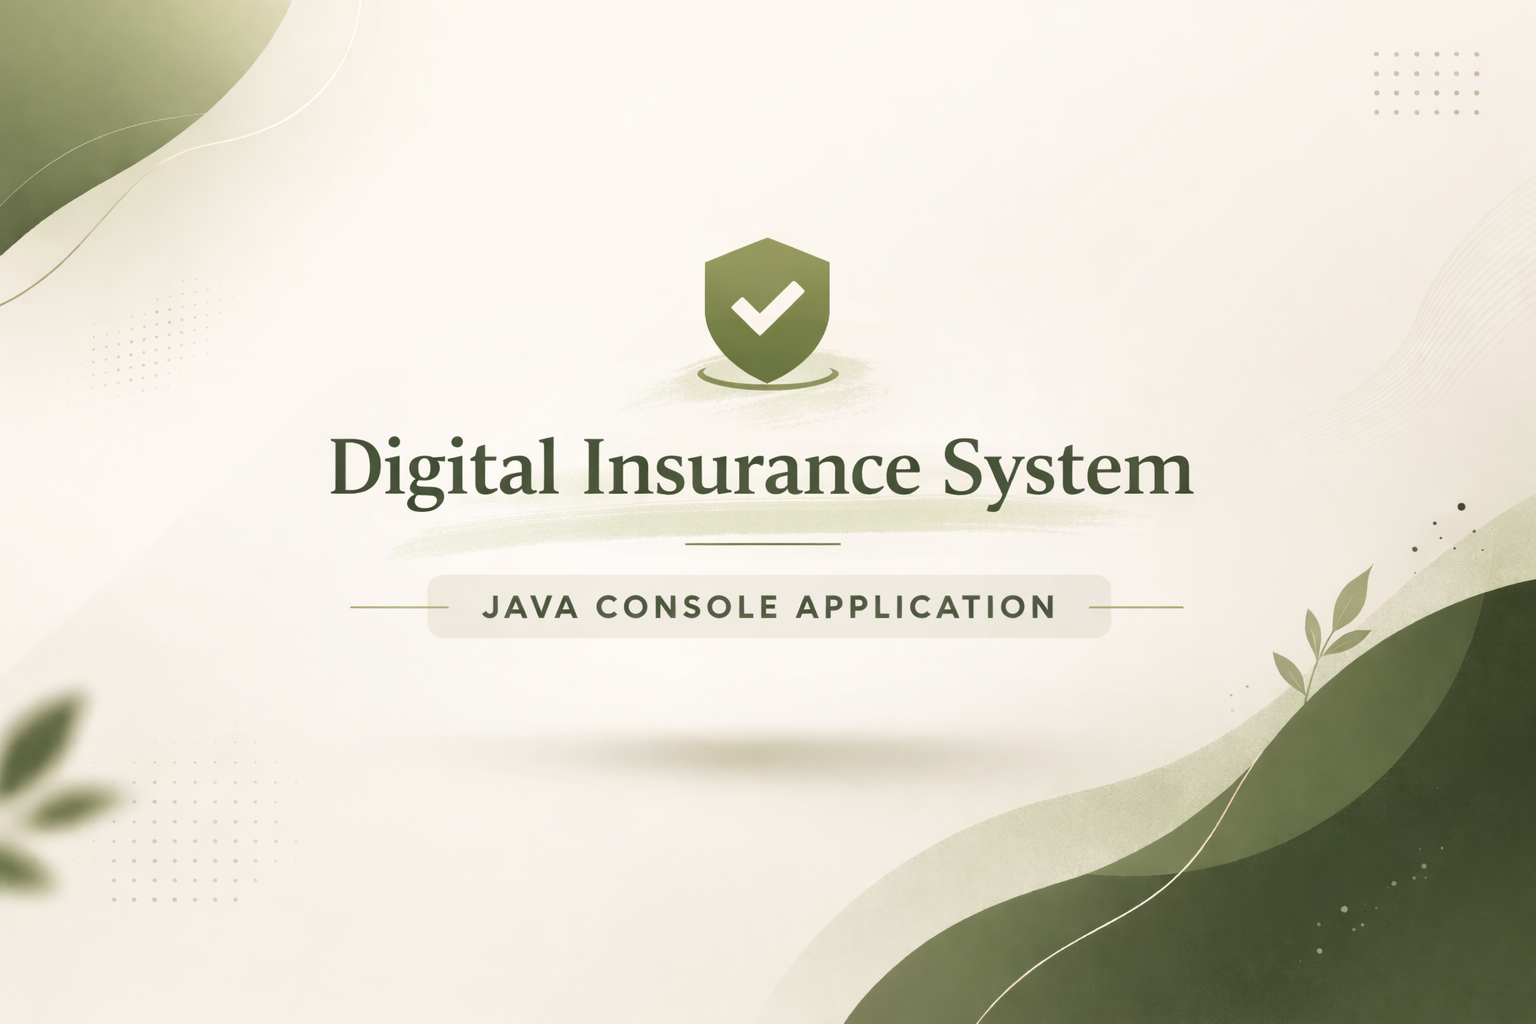
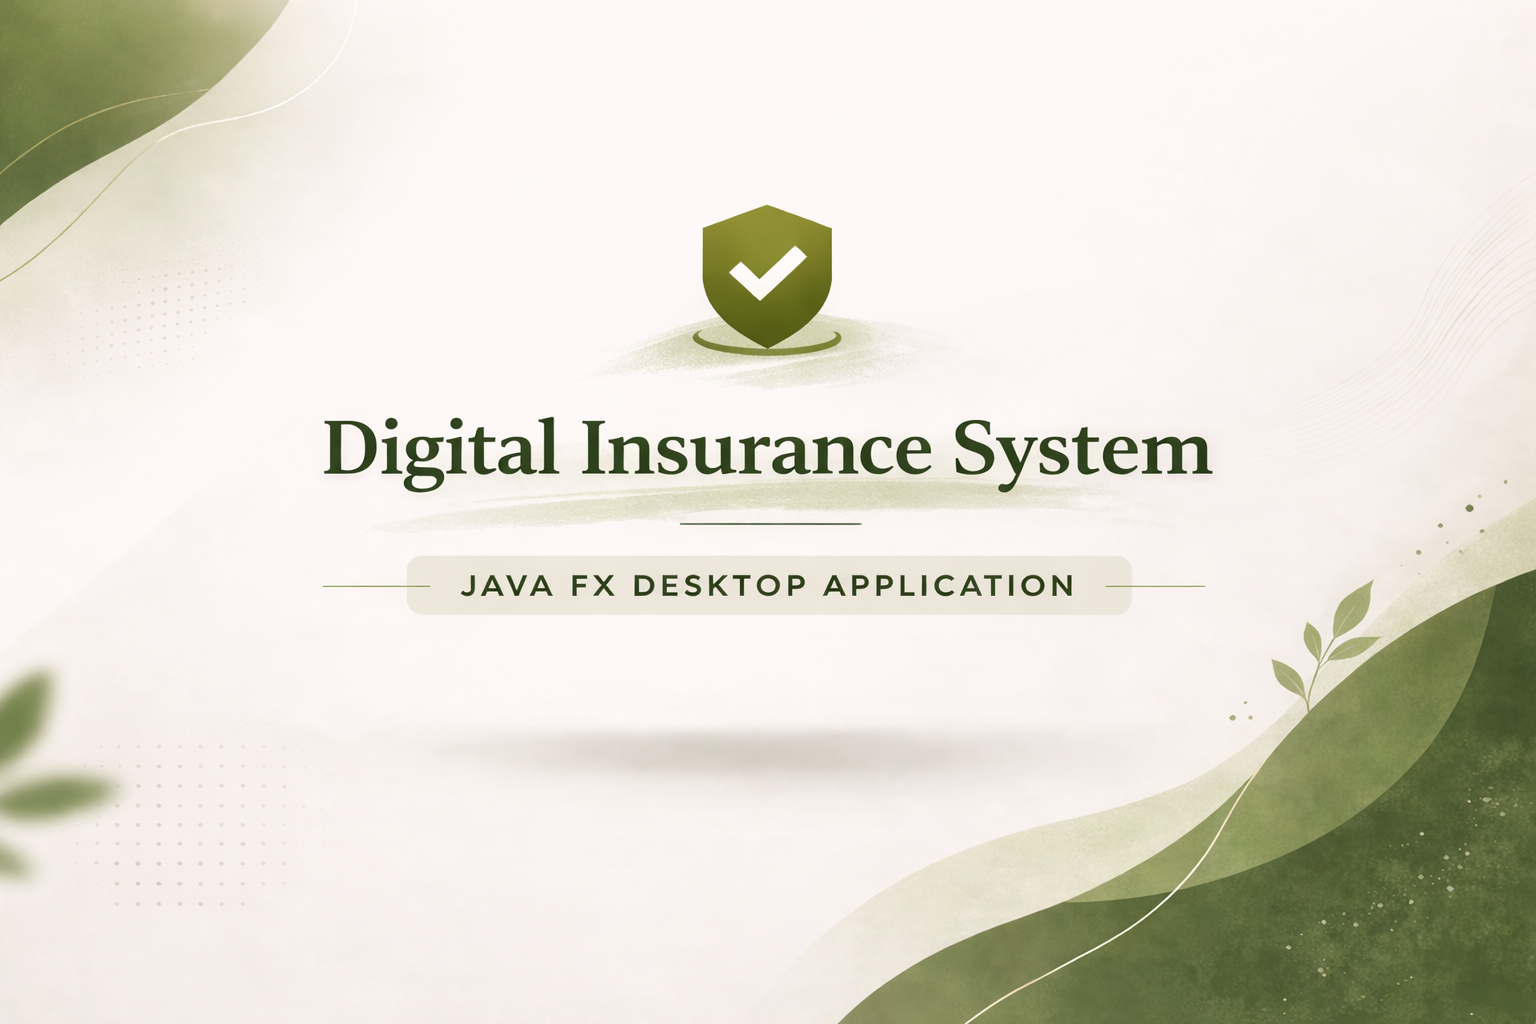
added new changes

diff --git a/digitalinsurance.html b/digitalinsurance.html
@@ -3,7 +3,7 @@
 <head>
   <meta charset="UTF-8" />
   <meta name="viewport" content="width=device-width, initial-scale=1.0" />
-  <title>Zesty Wear SA | Preview</title>
+  <title>Digital Insurance Management System | Preview</title>
 
   <!-- Your shared site styles -->
   <link rel="stylesheet" href="styles.css" />
@@ -55,28 +55,30 @@
         <div class="preview-hero reveal">
           <div class="preview-hero-left">
             <span class="section-label">Project Preview</span>
-            <h2 class="preview-title">Digital Insurance System</h2>
-            <p class="preview-subtitle">Java-based Insurance Management System</p>
+            <h2 class="preview-title">Digital Insurance Management System</h2>
+            <p class="preview-subtitle">JavaFX Desktop App + MySQL (JDBC)</p>
 
             <p class="preview-desc">
-              Full-stack Java application for managing insurance policies, claims, and customer data.
-              Features include user authentication, policy management, claim processing, and database integration.
+              A JavaFX desktop application that captures customer and policy details, calculates insurance premiums
+              based on policy type, stores records in a database, and displays saved policies in a TableView.
+              Built with clean UI structure, event-driven logic, and database integration.
             </p>
 
             <div class="tech-stack">
-              <span>HTML</span><span>CSS</span><span>JavaScript</span><span>PHP</span><span>MySQL</span>
+              <span>Java</span><span>JavaFX</span><span>JDBC</span><span>SQL / MySQL</span><span>TableView</span>
             </div>
 
             <div class="preview-actions">
               <a class="btn primary" href="#screens">View Screenshots</a>
-              <a class="btn ghost" href="https://github.com/anjetech/Zesty-Wear-SA" target="_blank" rel="noreferrer">GitHub</a>
+              <!-- Replace link with your real repo if you have one -->
+              <a class="btn ghost" href="#" target="_blank" rel="noreferrer">GitHub</a>
             </div>
           </div>
 
-          <!-- cover image (the logo card you generated) -->
+          <!-- cover image -->
           <div class="preview-cover image-frame">
-            <!-- rename this to your final file name -->
-            <img src="Photos/DigitalSystemJava.png" alt="Digital Insurance cover image">
+            <!-- Update this to your actual image file -->
+            <img src="Photos/DigitalSystemJava.png" alt="Digital Insurance Management System cover image">
           </div>
         </div>
 
@@ -85,27 +87,27 @@
           <div class="card">
             <h3>What it does</h3>
             <ul class="mini-list">
-              <li>Browse products and view details</li>
-              <li>Add to cart and update quantities</li>
-              <li>Checkout flow with session handling</li>
+              <li>Captures customer and policy info in a JavaFX form</li>
+              <li>Calculates premium automatically from coverage + policy type</li>
+              <li>Saves customers and policies into a SQL database</li>
             </ul>
           </div>
 
           <div class="card">
             <h3>Key features</h3>
             <ul class="mini-list">
-              <li>Product listings + filtering (if applicable)</li>
-              <li>Cart + totals</li>
-              <li>CRUD + database relationships</li>
+              <li>Policy type selection (Life / Health / Auto)</li>
+              <li>Premium % logic (5% / 8% / 10%)</li>
+              <li>View Policies button loads DB data into TableView</li>
             </ul>
           </div>
 
           <div class="card highlight">
             <h3>What I learned</h3>
             <ul class="mini-list">
-              <li>PHP + MySQL integration</li>
-              <li>Building CRUD with clean structure</li>
-              <li>Handling state with sessions</li>
+              <li>Building JavaFX forms and wiring events cleanly</li>
+              <li>Connecting Java to SQL using JDBC (PreparedStatements)</li>
+              <li>Displaying data with TableView + ObservableList</li>
             </ul>
           </div>
         </div>
@@ -113,36 +115,36 @@
         <!-- screenshots -->
         <div class="preview-section reveal" id="screens">
           <h3 class="preview-h3">Screenshots</h3>
-          <p class="preview-muted">Add 4–8 screenshots. Keep them the same size for a clean look.</p>
+          <p class="preview-muted">Add 3–6 screenshots (Form, Premium Calculation, TableView, Database).</p>
 
           <div class="gallery">
             <!-- Replace these with your real screenshots -->
             <figure class="shot image-frame">
-              <img src="Photos/zesty_01.png" alt="Zesty Wear - Home page">
+              <img src="Photos/insurance_01.png" alt="Insurance app - Data capture form">
             </figure>
 
             <figure class="shot image-frame">
-              <img src="Photos/zesty_02.png" alt="Zesty Wear - Product listing">
+              <img src="Photos/insurance_02.png" alt="Insurance app - Premium calculation">
             </figure>
 
             <figure class="shot image-frame">
-              <img src="Photos/zesty_03.png" alt="Zesty Wear - Cart">
+              <img src="Photos/insurance_03.png" alt="Insurance app - View policies TableView">
             </figure>
 
             <figure class="shot image-frame">
-              <img src="Photos/zesty_04.png" alt="Zesty Wear - Checkout">
+              <img src="Photos/insurance_04.png" alt="Insurance app - Database records">
             </figure>
           </div>
 
           <div class="preview-tip">
             <span class="dot"></span>
             <p class="preview-muted">
-              Tip: If you don’t have 4 screenshots yet, start with 2 (Home + Cart) and add more later.
+              Tip: If you don’t have database screenshots, use NetBeans output + the TableView screen first.
             </p>
           </div>
         </div>
 
-        <!-- project notes (optional but professional) -->
+        <!-- build notes -->
         <div class="preview-section reveal">
           <h3 class="preview-h3">Build Notes</h3>
 
@@ -150,16 +152,16 @@
             <div class="note">
               <h4>Architecture</h4>
               <p class="preview-muted">
-                Structured pages and server-side logic to support product retrieval, cart actions,
-                and checkout flow.
+                JavaFX UI built with GridPane + form inputs, wired with button handlers.
+                Uses a Policy model (SimpleStringProperty) to bind data into a TableView.
               </p>
             </div>
 
             <div class="note">
               <h4>Data</h4>
               <p class="preview-muted">
-                MySQL tables for products/users/orders (based on your implementation),
-                connected through relationships and CRUD operations.
+                Uses JDBC with PreparedStatements to insert customers and policies into separate tables.
+                The View Policies action joins the tables and loads results into an ObservableList for display.
               </p>
             </div>
           </div>

diff --git a/wattway.html b/wattway.html
@@ -3,7 +3,7 @@
 <head>
   <meta charset="UTF-8" />
   <meta name="viewport" content="width=device-width, initial-scale=1.0" />
-  <title>Zesty Wear SA | Preview</title>
+  <title>WattWay | Preview</title>
 
   <!-- Your shared site styles -->
   <link rel="stylesheet" href="styles.css" />
@@ -55,28 +55,32 @@
         <div class="preview-hero reveal">
           <div class="preview-hero-left">
             <span class="section-label">Project Preview</span>
-            <h2 class="preview-title">Wattway</h2>
-            <p class="preview-subtitle">Solar Panel E-Commerce Website</p>
+            <h2 class="preview-title">WattWay</h2>
+            <p class="preview-subtitle">EV Charging & Load-shedding Mobile App</p>
 
             <p class="preview-desc">
-              Full-stack e-commerce platform for solar panels with product listings, shopping cart, checkout,
-              session handling, and database-driven CRUD functionality.
+              A mobile app that helps EV users find charging stations on a map and view load-shedding schedules.
+              It includes secure login/registration, role-based access, profile management, and admin controls,
+              with strong error handling and smooth screen navigation.
             </p>
 
             <div class="tech-stack">
-              <span>HTML</span><span>CSS</span><span>JavaScript</span><span>PHP</span><span>MySQL</span>
+              <span>Android</span><span>Firebase Auth</span><span>Firestore</span><span>Google Maps</span>
+              <span>EskomSePush API</span><span>MVVM</span>
             </div>
 
             <div class="preview-actions">
               <a class="btn primary" href="#screens">View Screenshots</a>
-              <a class="btn ghost" href="https://github.com/anjetech/Wattway" target="_blank" rel="noreferrer">GitHub</a>
+
+              <!-- Note: your doc says the repo is private; link still included for convenience -->
+              <a class="btn ghost" href="https://github.com/anjetech/WattWay-App" target="_blank" rel="noreferrer">GitHub</a>
             </div>
           </div>
 
-          <!-- cover image (the logo card you generated) -->
+          <!-- cover image -->
           <div class="preview-cover image-frame">
-            <!-- rename this to your final file name -->
-            <img src="Photos/wattway_logo.PNG" alt="Wattway cover image">
+            <!-- Update this filename to match your real image -->
+            <img src="Photos/wattway_logo.PNG" alt="WattWay cover image">
           </div>
         </div>
 
@@ -85,27 +89,27 @@
           <div class="card">
             <h3>What it does</h3>
             <ul class="mini-list">
-              <li>Browse products and view details</li>
-              <li>Add to cart and update quantities</li>
-              <li>Checkout flow with session handling</li>
+              <li>Shows EV charging stations on a map</li>
+              <li>Displays load-shedding schedules (API-driven)</li>
+              <li>Profile management + admin controls</li>
             </ul>
           </div>
 
           <div class="card">
             <h3>Key features</h3>
             <ul class="mini-list">
-              <li>Product listings + filtering (if applicable)</li>
-              <li>Cart + totals</li>
-              <li>CRUD + database relationships</li>
+              <li>Secure login & registration (Firebase Authentication)</li>
+              <li>Role-based access using Firestore rules</li>
+              <li>Error handling + loading states for API responses</li>
             </ul>
           </div>
 
           <div class="card highlight">
             <h3>What I learned</h3>
             <ul class="mini-list">
-              <li>PHP + MySQL integration</li>
-              <li>Building CRUD with clean structure</li>
-              <li>Handling state with sessions</li>
+              <li>MVVM structure for cleaner, maintainable code</li>
+              <li>NoSQL design + real-time syncing with Firebase</li>
+              <li>UI consistency and testing to reduce bugs</li>
             </ul>
           </div>
         </div>
@@ -118,31 +122,31 @@
           <div class="gallery">
             <!-- Replace these with your real screenshots -->
             <figure class="shot image-frame">
-              <img src="Photos/zesty_01.png" alt="Zesty Wear - Home page">
+              <img src="Photos/wattway_01.png" alt="WattWay - Login or Home screen">
             </figure>
 
             <figure class="shot image-frame">
-              <img src="Photos/zesty_02.png" alt="Zesty Wear - Product listing">
+              <img src="Photos/wattway_02.png" alt="WattWay - Map view and station markers">
             </figure>
 
             <figure class="shot image-frame">
-              <img src="Photos/zesty_03.png" alt="Zesty Wear - Cart">
+              <img src="Photos/wattway_03.png" alt="WattWay - Load-shedding schedules screen">
             </figure>
 
             <figure class="shot image-frame">
-              <img src="Photos/zesty_04.png" alt="Zesty Wear - Checkout">
+              <img src="Photos/wattway_04.png" alt="WattWay - Admin controls screen">
             </figure>
           </div>
 
           <div class="preview-tip">
             <span class="dot"></span>
             <p class="preview-muted">
-              Tip: If you don’t have 4 screenshots yet, start with 2 (Home + Cart) and add more later.
+              Tip: If you don’t have 4 screenshots yet, start with 2 (Map + Load-shedding) and add more later.
             </p>
           </div>
         </div>
 
-        <!-- project notes (optional but professional) -->
+        <!-- project notes -->
         <div class="preview-section reveal">
           <h3 class="preview-h3">Build Notes</h3>
 
@@ -150,16 +154,16 @@
             <div class="note">
               <h4>Architecture</h4>
               <p class="preview-muted">
-                Structured pages and server-side logic to support product retrieval, cart actions,
-                and checkout flow.
+                Designed to integrate multiple services smoothly (authentication, database, maps, and external APIs),
+                while handling asynchronous data flow, navigation stability, and clean maintainable structure using MVVM.
               </p>
             </div>
 
             <div class="note">
               <h4>Data</h4>
               <p class="preview-muted">
-                MySQL tables for products/users/orders (based on your implementation),
-                connected through relationships and CRUD operations.
+                Uses Firestore (NoSQL) with role-based access control and real-time syncing.
+                Improved reliability by adding error handling/loading states and tightening access rules.
               </p>
             </div>
           </div>

diff --git a/work.html b/work.html
@@ -87,9 +87,10 @@
             </div>
             <div class="project-content">
               <h3>WattWay</h3>
-              <p class="project-sub">EV Charging & Load Shedding App</p>
+              <p class="project-sub">EV Charging & Load-Shedding Android App</p>
               <p class="project-desc">
-                Android app providing EV charging locations, navigation, and load-shedding schedules.
+                Android application that helps users locate EV charging stations on a map and view load-shedding schedules,
+                with secure authentication and database-driven features.
               </p>
 
               <p class="project-note">
@@ -98,7 +99,7 @@
               </p>
 
               <div class="tech-stack">
-                <span>Java</span><span>Android</span><span>API</span>
+                <span>Java</span><span>Android</span><span>Firebase</span><span>Google Maps</span><span>API Integration</span>
               </div>
 
               <div class="project-buttons">
@@ -115,9 +116,10 @@
             </div>
             <div class="project-content">
               <h3>Digital Insurance System</h3>
-              <p class="project-sub">Java Console Application</p>
+              <p class="project-sub">JavaFX Desktop Application + SQL (JDBC)</p>
               <p class="project-desc">
-                Console-based system for managing insurance clients with object-oriented design.
+                JavaFX desktop application for capturing customer and policy details, calculating premiums by policy type,
+                storing records in a SQL database, and displaying saved policies in a TableView.
               </p>
 
               <p class="project-note">
@@ -126,7 +128,7 @@
               </p>
 
               <div class="tech-stack">
-                <span>Java</span><span>OOP</span>
+                <span>Java</span><span>JavaFX</span><span>JDBC</span><span>SQL</span><span>OOP</span>
               </div>
 
               <div class="project-buttons">
